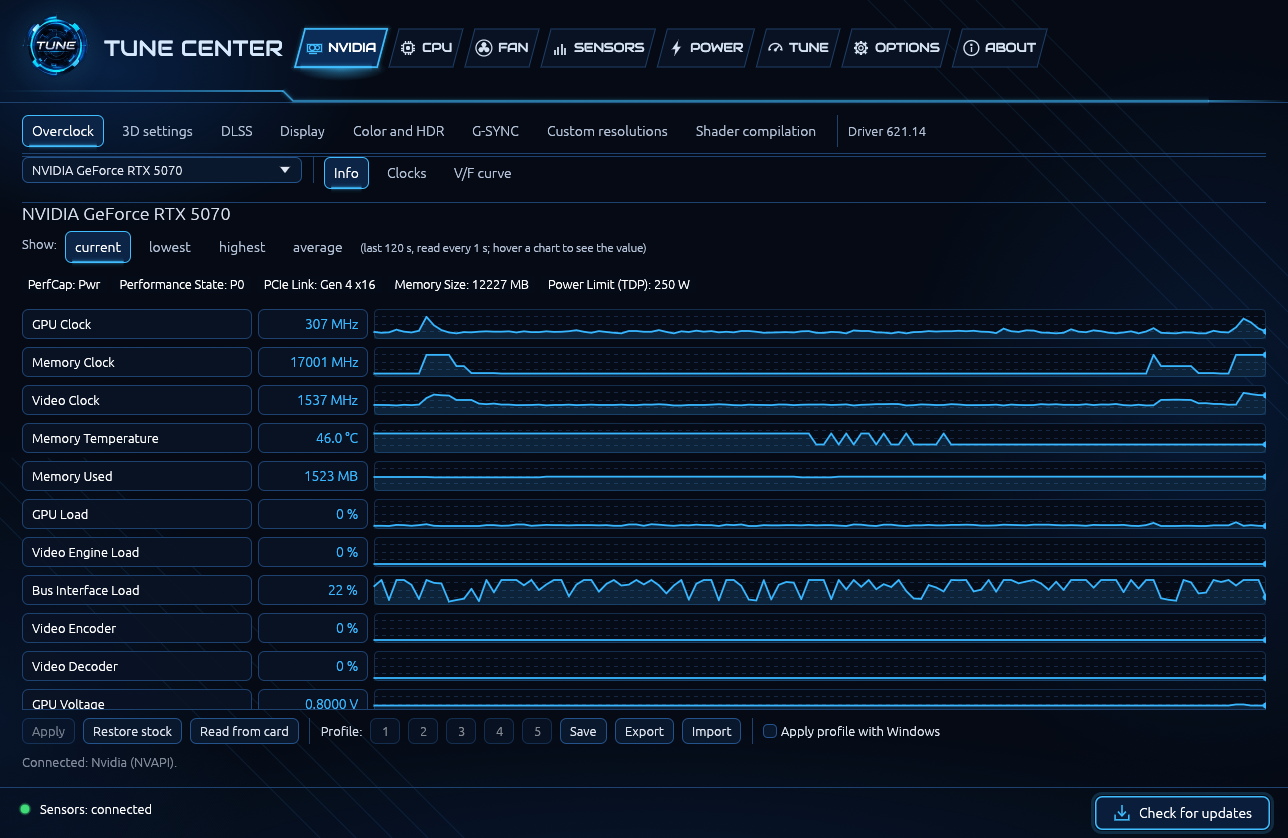
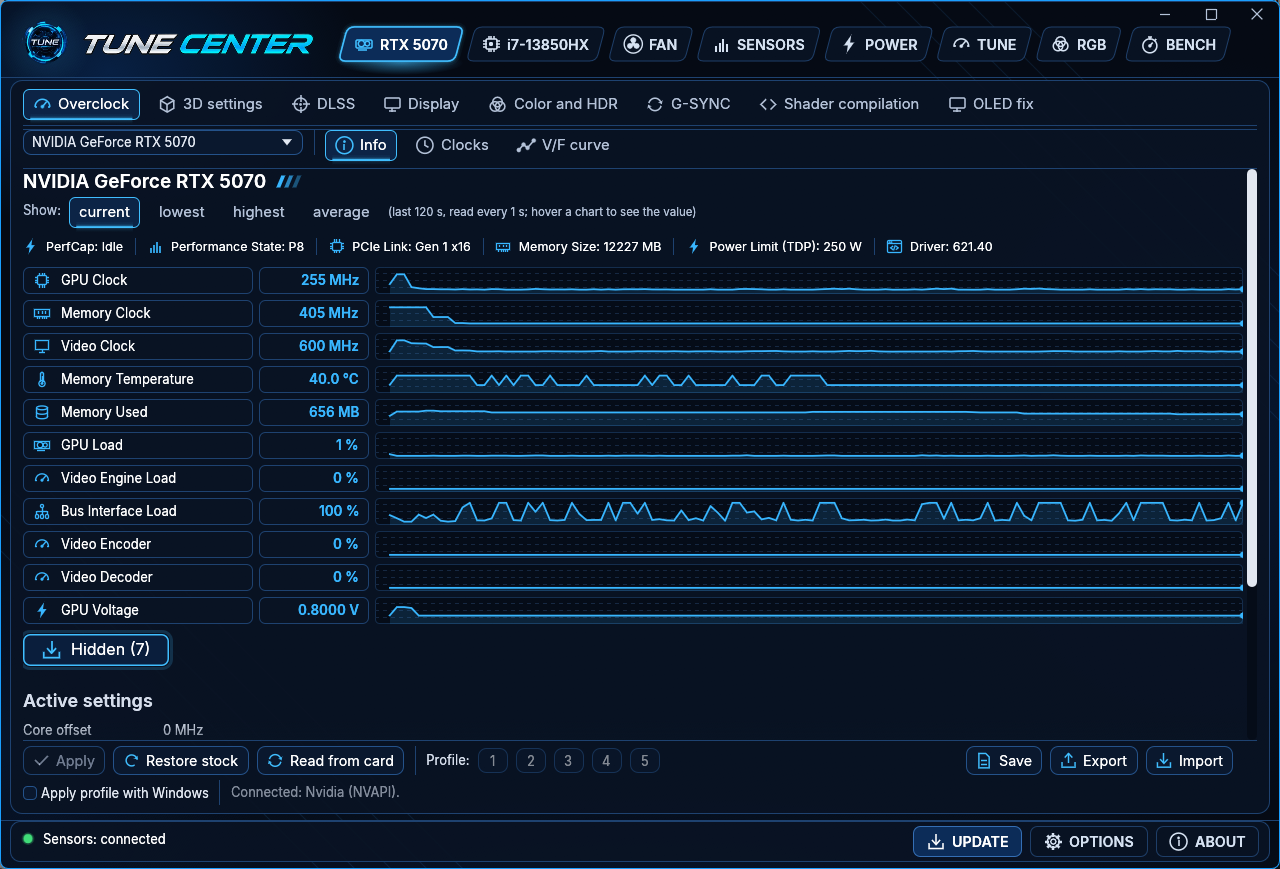
Update README, screenshots and the About tab
- README (EN and PL): RADEON and INTEL tabs, the basic panel for older
  Intel graphics, every shader engine incl. Unreal DX12 without a
  pipeline cache, USB power supplies and laptop battery, ACPI board
  temperature; new screenshots of nine tabs.
- About tab: current feature list (shader engines, RADEON/INTEL, whole
  computer power), without the removed custom resolutions.
- The default fan profile gets its name in the chosen language on the
  first start; game profiles list Battle.net and Riot Games.

Changed region(s): [[0.0, 0.0, 1.0, 1.0]]

diff --git a/src/main.rs b/src/main.rs
@@ -1063,10 +1063,11 @@ impl App {
                 crate::i18n::tr("O programie", "About"),
                 &[
                     crate::i18n::tr("Strojenie i monitorowanie komputera w jednym oknie.", "PC tuning and monitoring in one window."),
-                    crate::i18n::tr("NVIDIA - Overclock (zegary kart Nvidia i AMD, krzywa napięcie/częstotliwość, profile, HAGS, Resizable BAR), ustawienia 3D i DLSS, ekran, kolor i HDR, G-SYNC, rozdzielczości niestandardowe, kompilacja shaderów gier, OLED fix i aktualizacja sterownika.", "NVIDIA - Overclock (Nvidia and AMD card clocks, voltage/frequency curve, profiles, HAGS, Resizable BAR), 3D and DLSS settings, display, color and HDR, G-SYNC, custom resolutions, game shader compilation, OLED fix and driver updates."),
+                    crate::i18n::tr("NVIDIA - Overclock (zegary kart Nvidia i AMD, krzywa napięcie/częstotliwość, profile, HAGS, Resizable BAR), ustawienia 3D i DLSS, ekran, kolor i HDR, G-SYNC, OLED fix i aktualizacja sterownika. Karty AMD: ustawienia 3D, FSR i FreeSync (RADEON). Karty Intel: ustawienia 3D, ARC SYNC i ekran (INTEL), a starsze grafiki Intel - podstawowy panel z ustawieniami Windows.", "NVIDIA - Overclock (Nvidia and AMD card clocks, voltage/frequency curve, profiles, HAGS, Resizable BAR), 3D and DLSS settings, display, color and HDR, G-SYNC, OLED fix and driver updates. AMD cards: 3D settings, FSR and FreeSync (RADEON). Intel cards: 3D settings, ARC SYNC and display (INTEL), and older Intel graphics a basic panel with Windows settings."),
+                    crate::i18n::tr("Kompilacja shaderów gier z góry, z samych plików gry: Unity, Unreal Engine (DX11 i DX12), Dagor, Source 2, REDengine 3, RAGE, ForzaTech, Santa Monica, Northlight, Luminous, Frostbite, CRYENGINE, Snowdrop, Nixxes, Stingray, Tank, Zouna, Dawn oraz gry DX12 z shaderami niosącymi root signature. Gry ze Steam, Epic, GOG, Ubisoft, EA, Xbox, Battle.net i Riot Games.", "Ahead-of-time game shader compilation from the game files alone: Unity, Unreal Engine (DX11 and DX12), Dagor, Source 2, REDengine 3, RAGE, ForzaTech, Santa Monica, Northlight, Luminous, Frostbite, CRYENGINE, Snowdrop, Nixxes, Stingray, Tank, Zouna, Dawn and DX12 games whose shaders carry their root signature. Games from Steam, Epic, GOG, Ubisoft, EA, Xbox, Battle.net and Riot Games."),
                     crate::i18n::tr("CPU - Intel: limity mocy, offsety napięcia, IccMax, mnożniki turbo. AMD Ryzen: Curve Optimizer i limity PBO.", "CPU - Intel: power limits, voltage offsets, IccMax, turbo ratios. AMD Ryzen: Curve Optimizer and PBO limits."),
                     crate::i18n::tr("FAN - wentylatory płyty i karty: ręcznie albo krzywą zależną od temperatury, profile, także osobne dla gier.", "FAN - motherboard and card fans: manual or a temperature-based curve, profiles, also per game."),
-                    crate::i18n::tr("SENSORS i POWER - najważniejsze temperatury oraz pobór mocy procesora i karty z licznikiem energii i kosztem.", "SENSORS and POWER - key temperatures and CPU and card power draw with an energy counter and cost."),
+                    crate::i18n::tr("SENSORS i POWER - najważniejsze temperatury oraz pobór mocy procesora i karty z licznikiem energii i kosztem; zasilacz z USB (Corsair HXi/RMi, MSI Ai) i bateria laptopa pokazują pobór całego komputera.", "SENSORS and POWER - key temperatures and CPU and card power draw with an energy counter and cost; a USB power supply (Corsair HXi/RMi, MSI Ai) and a laptop battery show the whole computer's power draw."),
                     crate::i18n::tr("TUNE - ustawienia Windows wpływające na opóźnienia (przełączniki ON/OFF z kopią oryginałów).", "TUNE - Windows settings that affect latency (ON/OFF switches with a backup of the originals)."),
                     crate::i18n::tr("RGB - podświetlenie RAM, taśm Skydimo, urządzeń Logitech G, kart NVIDIA, płyt ASUS, Gigabyte i MSI oraz kontrolerów Corsair: kolor z jasnością, efekty (oddychanie, miganie, cykl kolorów, tęcza - tyle, ile ma dane urządzenie) z szybkością albo wyłączenie.", "RGB - lighting of RAM, Skydimo strips, Logitech G devices, NVIDIA cards, ASUS, Gigabyte and MSI boards and Corsair controllers: color with brightness, effects (breathing, flashing, color cycle, rainbow - as many as the device has) with speed, or off."),
                     crate::i18n::tr("BENCH - test wydajności procesora, stress test i test stabilności karty graficznej.", "BENCH - CPU performance test, stress test and graphics card stability test."),

diff --git a/src/config.rs b/src/config.rs
@@ -199,7 +199,16 @@ impl Config {
         let mut cfg: Config = Self::existing_path()
             .and_then(|p| std::fs::read_to_string(p).ok())
             .and_then(|s| serde_json::from_str(&s).ok())
-            .unwrap_or_default();
+            .unwrap_or_else(|| {
+                // Pierwsze uruchomienie: domyślny profil powstaje dopiero w
+                // `repair` niżej, gdy język jest już znany (inaczej zawsze
+                // dostawał polską nazwę).
+                let mut fresh = Config::default();
+                fresh.profiles.clear();
+                fresh.active.clear();
+                fresh.global_profile.clear();
+                fresh
+            });
 
         // Język trzeba ustalić przed naprawą ustawień: nazwa domyślnego
         // profilu zależy od języka.

diff --git a/src/fans.rs b/src/fans.rs
@@ -246,8 +246,8 @@ impl FansTab {
                 let text = match &found {
                     None => crate::i18n::tr("szukanie gier...", "looking for games...").to_owned(),
                     Some(l) => crate::trf!(
-                        "wykryte gry: {} (Steam, Epic, GOG, Ubisoft, EA, Xbox), z własnym profilem: {}",
-                        "detected games: {} (Steam, Epic, GOG, Ubisoft, EA, Xbox), with their own profile: {}",
+                        "wykryte gry: {} (Steam, Epic, GOG, Ubisoft, EA, Xbox, Battle.net, Riot Games), z własnym profilem: {}",
+                        "detected games: {} (Steam, Epic, GOG, Ubisoft, EA, Xbox, Battle.net, Riot Games), with their own profile: {}",
                         l.len(),
                         assigned
                     ),

diff --git a/README.md b/README.md
@@ -27,7 +27,8 @@ Most PC tuning means juggling MSI Afterburner, NVIDIA App, Intel XTU or Ryzen Ma
 
 - 🎮 **GPU** – core/memory clock offsets, a drag-and-drop **V/F curve editor** for undervolting, 5 profiles, apply on startup.
 - 🟢 **NVIDIA control panel** – 3D settings (global and per game), **DLSS overrides like the NVIDIA App** (presets, mode, Frame Generation), display, color/HDR, G-SYNC – using only the public NVAPI SDK.
-- ⚡ **Shader pre-compilation** – compile a game's shaders ahead of time (Unity, Unreal Engine, Dagor, Source 2, REDengine 3, RAGE, ForzaTech, Santa Monica, Northlight, Luminous, Frostbite, DirectX 12 games whose shaders carry their root signature and other DirectX 11 games) so the first match doesn't stutter, and clean the shader cache with one click.
+- 🔴🔵 **RADEON and INTEL** – AMD cards get 3D settings, FSR and FreeSync; Intel Xe and Arc get 3D settings, ARC SYNC and display; older Intel graphics get a basic panel with Windows display and graphics settings.
+- ⚡ **Shader pre-compilation** – compile a game's shaders ahead of time, from the game files alone (Unity, Unreal Engine DX11 and DX12, Dagor, Source 2, REDengine 3, RAGE, ForzaTech, Santa Monica, Northlight, Luminous, Frostbite, CRYENGINE, Snowdrop, Nixxes, Stingray, Tank, Zouna, Dawn, DirectX 12 games whose shaders carry their root signature and other DirectX 11 games) so the first match doesn't stutter, and clean the shader cache with one click.
 - 🧠 **CPU** – Intel PL1/PL2, voltage offsets, IccMax and turbo ratios with an XTU-style live monitor; AMD Ryzen Curve Optimizer per core and PBO limits.
 - 🌀 **Fans** – motherboard and GPU fans: auto, fixed or temperature curve, with profiles that switch automatically while a game runs.
 - 🌡 **Sensors & power** – key temperatures and CPU/GPU power with 2-minute charts, session energy and its cost.
@@ -48,7 +49,15 @@ Most PC tuning means juggling MSI Afterburner, NVIDIA App, Intel XTU or Ryzen Ma
 <td><img src="docs/screenshots/sensors.png" alt="Sensors"><br><b>SENSORS</b> – key temperatures with status badges and charts</td>
 </tr>
 <tr>
-<td colspan="2" align="center"><img src="docs/screenshots/power.png" width="50%" alt="Power"><br><b>POWER</b> – CPU and GPU power draw, load against the power limit, session energy and cost</td>
+<td><img src="docs/screenshots/power.png" alt="Power"><br><b>POWER</b> – CPU and GPU power draw, load against the power limit, session energy and cost</td>
+<td><img src="docs/screenshots/shaders.png" alt="Shader compilation"><br><b>Shader compilation</b> – installed games, their engine and what can be compiled ahead of time</td>
+</tr>
+<tr>
+<td><img src="docs/screenshots/tune.png" alt="Tune"><br><b>TUNE</b> – Windows latency and DPC settings with a backup of the originals</td>
+<td><img src="docs/screenshots/rgb.png" alt="RGB"><br><b>RGB</b> – one tab for RAM, LED strips, peripherals and the graphics card</td>
+</tr>
+<tr>
+<td colspan="2" align="center"><img src="docs/screenshots/bench.png" width="50%" alt="Bench"><br><b>BENCH</b> – CPU score, stress test and graphics card stability test</td>
 </tr>
 </table>
 
@@ -59,11 +68,12 @@ Most PC tuning means juggling MSI Afterburner, NVIDIA App, Intel XTU or Ryzen Ma
 - **Info** – GPU-Z style rows: clocks, memory temperature, memory used, GPU / video engine / bus load, encoder, decoder, voltage; less important readings (PCIe TX/RX, power, % TDP) behind a *Hidden* button. Hover any chart for the exact value.
 - **3D settings** and **DLSS** – the NVIDIA Control Panel / NVIDIA App options, globally or per game, with a backup before the first change.
 - **Display, Color and HDR, G-SYNC** – resolution and refresh rate (with 15 s confirmation), color depth, HDR, VRR.
-- **Shader compilation** – detects games from Steam, Epic, GOG, Ubisoft, EA, Xbox, Battle.net and Riot Games; pre-compiles shaders for Unity (DX11), Unreal Engine (DX11 from unencrypted `.pak` or IoStore games such as Palworld; DX12 pipelines from the game's `.upipelinecache`), Dagor Engine (DX11; DX12 compute and graphics pipelines from the game's `cache\dx12.cache`), Source 2 (DX11, e.g. Counter-Strike 2), REDengine 3 (DX12, The Witcher 3: pipelines from the game's shader cache and techniques), RAGE gen9 (DX12, GTA V Enhanced), ForzaTech (DX12, Forza Horizon), Santa Monica (DX12 God of War Ragnarök, DX11 God of War), Northlight (DX12, Control), Luminous Studio (DX11, Final Fantasy XV), Frostbite (DX11), DX12 games of any engine whose shaders carry an embedded root signature (carved from the game files, vertex and pixel shaders paired by their signatures) and other DX11 games with loose shader files; on AMD and Intel DX11 shaders also get the input layout from their signature; `tunecenter.exe --shader-report [game]` writes a read-only report `tunecenter-shaders.txt` of what it finds in each game; a *Status* column shows when each game was compiled and marks it again when a new NVIDIA driver (which clears the shader cache) or a game update needs a recompile; *Compile all that need it* queues the games and compiles them one after another, optionally on its own in the background after a driver update; the game's cache size is measured after compiling; *Clean shaders* removes the game's NVIDIA and Windows (D3DSCache) shader caches.
+- **Shader compilation** – detects games from Steam, Epic, GOG, Ubisoft, EA, Xbox, Battle.net and Riot Games; pre-compiles shaders for Unity (DX11), Unreal Engine (DX11 from unencrypted `.pak` or IoStore games such as Palworld; DX12 pipelines from the game's `.upipelinecache` or, without one, from its SM6 shader maps with the root signatures of the engine version, UE 4.20–5.8), Dagor Engine (DX11; DX12 compute and graphics pipelines from the game's `cache\dx12.cache`), Source 2 (DX11, e.g. Counter-Strike 2), REDengine 3 (DX12, The Witcher 3: pipelines from the game's shader cache and techniques), RAGE gen9 (DX12, GTA V Enhanced), ForzaTech (DX12, Forza Horizon), Santa Monica (DX12 God of War Ragnarök, DX11 God of War), Northlight (DX12, Control), Luminous Studio (DX11, Final Fantasy XV), Frostbite (DX11), CRYENGINE (DX12, Hunt: Showdown), Snowdrop (DX12, Star Wars Outlaws), Nixxes (DX12, Ghost of Tsushima, Ratchet & Clank), Stingray (DX11, Helldivers 2), Tank (DX11, Overwatch), Zouna (DX12, A Plague Tale: Requiem), Dawn (DX12, Guardians of the Galaxy), DX12 games of any engine whose shaders carry an embedded root signature (carved from the game files, vertex and pixel shaders paired by their signatures) and other DX11 games with loose shader files; on AMD and Intel DX11 shaders also get the input layout from their signature; `tunecenter.exe --shader-report [game]` writes a read-only report `tunecenter-shaders.txt` of what it finds in each game; a *Status* column shows when each game was compiled and marks it again when a new NVIDIA driver (which clears the shader cache) or a game update needs a recompile; *Compile all that need it* queues the games and compiles them one after another, optionally on its own in the background after a driver update; the game's cache size is measured after compiling; *Clean shaders* removes the game's NVIDIA and Windows (D3DSCache) shader caches.
 - **OLED fix** – one-click `vrrFrameSplitBehavior` driver tweak: with G-SYNC the driver keeps a 1× frame multiplier down to 48 FPS instead of doubling (e.g. 60 FPS → 120 Hz), which removes VRR brightness flicker on OLED monitors; re-applied automatically after a clean driver install.
 - **System** – Hardware-accelerated GPU scheduling (HAGS) toggle and Resizable BAR status.
 - **Driver updates** – checks the NVIDIA server for the latest Game Ready driver for your card (at startup and every 6 hours) and installs just the driver (with HDMI audio and PhysX, without NVIDIA App and telemetry) silently with one click.
-- AMD Radeon cards: clock limits, sensors and fans.
+- AMD Radeon cards: clock limits, sensors and fans; the tab is called RADEON and has 3D settings, FSR and FreeSync (AMD ADLX).
+- Intel graphics: the tab is called INTEL – 3D settings (global or per game), ARC SYNC and display from the Intel driver (IGCL, Intel Xe and Arc). Graphics older than 11th-gen processors get a basic panel instead: display mode, scaling and HDR, HAGS, windowed game optimizations, Windows VRR and the GPU chosen for a game. Without an NVIDIA or AMD card the Overclock page is hidden.
 
 ### CPU
 - **Intel** (12th–14th gen): PL1, PL2 and Tau, voltage offset per domain, Core IccMax, active-core turbo ratios (like XTU), live monitor (package/core temperatures, RAPL power, VID, clocks, throttling reasons).
@@ -72,9 +82,10 @@ Most PC tuning means juggling MSI Afterburner, NVIDIA App, Intel XTU or Ryzen Ma
 
 ### FAN, SENSORS, POWER
 - Motherboard fans (via LibreHardwareMonitor) and GPU fans (directly through the NVIDIA/AMD driver): auto, manual or curve from any temperature sensor; GPU fans return to auto above 88 °C.
-- **Game profiles** – assign a fan profile to any game detected in Steam, Epic, GOG, Ubisoft, EA or Xbox (or any .exe); it switches on while the game runs and the global profile returns when it closes.
-- Key temperatures (CPU, GPU, motherboard, disks, RAM) with NORMAL/HIGH/HOT badges, min/max and charts.
+- **Game profiles** – assign a fan profile to any game detected in Steam, Epic, GOG, Ubisoft, EA, Xbox, Battle.net or Riot Games (or any .exe); it switches on while the game runs and the global profile returns when it closes.
+- Key temperatures (CPU, GPU, motherboard, disks, RAM) with NORMAL/HIGH/HOT badges, min/max and charts. When the motherboard's sensor chip can't be read, the board temperature comes from Windows ACPI thermal zones (only zones that actually change, not fixed BIOS values).
 - CPU and GPU power with LOW/MEDIUM/HIGH load against the power limit, session energy and cost (price per kWh in OPTIONS).
+- **Whole computer** – a USB power supply (Corsair HXi/RMi, MSI Ai) or a discharging laptop battery shows the power draw of the whole PC, next to the CPU + GPU total. Power supply temperatures and fan speed are shown read-only.
 
 ### TUNE – latency and DPC
 Windows and driver settings recommended by Microsoft, NVIDIA and hardware vendors (Memory Integrity, Virtual Machine Platform, NIC interrupt moderation, EEE and vendor power saving (Green Ethernet, Gigabit Lite, Selective Suspend and more), USB selective suspend, PCIe link power management, CPU core parking off, Ultimate Performance plan, mouse acceleration off, SysMain off on SSD-only PCs, NVIDIA V-Sync + frame cap below the refresh rate for G-SYNC, Low Latency Mode) plus settings to test on your own hardware (NVIDIA maximum performance power mode, MSI interrupt mode per device, memory compression off, Fault Tolerant Heap off, fast startup off, Win32PrioritySeparation, SystemResponsiveness, Multi-Plane Overlay off). Every option shows its current value; the original values are backed up before the first change.
@@ -97,7 +108,7 @@ Running as administrator is optional – the GPU, NVIDIA settings, shader compil
 
 ### Requirements
 - Windows 10 or 11, 64-bit
-- NVIDIA (GTX/RTX) or AMD Radeon graphics card with a current driver
+- NVIDIA (GTX/RTX), AMD Radeon or Intel graphics with a current driver
 - [.NET 11 Runtime](https://dotnet.microsoft.com/download/dotnet/11.0) – for the sensor process (installed by the setup)
 - [PawnIO](https://pawnio.eu) – optional; needed for CPU tuning, CPU sensors and RAM lighting (installed by the setup)
 

diff --git a/README.pl.md b/README.pl.md
@@ -10,7 +10,12 @@ przełącza się przyciskami w nagłówku, obok logo:
     zegar rdzenia / napięcie dla kart Nvidia (dawny NVCurve, wcześniej
     zakładka GPU),
   - odpowiednik panelu sterowania Nvidia: ustawienia 3D (globalne i dla
-    programów), tryb ekranu, kolor i HDR, G-SYNC.
+    programów), tryb ekranu, kolor i HDR, G-SYNC,
+  - kompilacja shaderów gier z góry (Shader compilation),
+  - z kartą AMD zakładka nazywa się RADEON (ustawienia 3D, FSR, FreeSync),
+    z grafiką Intel - INTEL (ustawienia 3D, ARC SYNC, ekran; starsze grafiki
+    Intel dostają podstawowy panel z ustawieniami Windows). Bez karty Nvidia
+    i AMD podzakładka Overclock jest ukryta.
 - **CPU** - Intel: limity mocy, offsety napięcia i Core IccMax;
   AMD Ryzen: Curve Optimizer dla każdego rdzenia i limity PBO.
 - **FAN** - sterowanie wentylatorami płyty głównej: ręcznie lub krzywą
@@ -18,7 +23,9 @@ przełącza się przyciskami w nagłówku, obok logo:
   (dawny FanCtl).
 - **SENSORS** - najważniejsze temperatury z wykresami z ostatnich 2 minut.
 - **POWER** - aktualny pobór mocy procesora i karty graficznej, suma
-  oraz licznik energii zużytej w bieżącej sesji.
+  oraz licznik energii zużytej w bieżącej sesji; zasilacz z USB (Corsair
+  HXi/RMi, MSI Ai) i rozładowująca się bateria laptopa pokazują pobór
+  całego komputera.
 - **TUNE** - ustawienia Windows wpływające na opóźnienia i DPC, z kopią
   oryginalnych wartości i przywracaniem.
 - **RGB** - podświetlenie RAM, taśm Skydimo, urządzeń Logitech G, kart
@@ -49,7 +56,7 @@ a kartę graficzną - bezpośrednio biblioteki sterowników: `nvapi64.dll`
 - .NET SDK 8: https://dotnet.microsoft.com/download
 - Sterownik PawnIO (https://pawnio.eu) - potrzebny nowszym wersjom
   LibreHardwareMonitor do dostępu do układu Super I/O płyty głównej
-- Sterownik Nvidia lub AMD Adrenalin (dla zakładki "Karta graficzna")
+- Sterownik Nvidia, AMD Adrenalin albo Intel (dla zakładki karty graficznej)
 
 ## Budowanie i uruchamianie
 
@@ -284,8 +291,17 @@ udostępnia pobierania gotowych shaderów; Tune Center czyta je z plików gry.
   gry; God of War 2018, DX11), Northlight (Control, DX12 - rekordy potoków,
   dwie root signature silnika), Luminous Studio (Final Fantasy XV, DX11 -
   archiwa EARC), Frostbite (DX11 - bloki archiwów `cas_NN.cas`; bloki
-  zaciemnione i ze słownikiem gry są pomijane). Żadna z tych gier nie była
-  sprawdzona na prawdziwych plikach - tylko testy na danych syntetycznych.
+  zaciemnione i ze słownikiem gry są pomijane), CRYENGINE (Hunt: Showdown,
+  DX12 - root signature z układów zasobów gry), Snowdrop (Star Wars Outlaws,
+  DX12), Nixxes (Ghost of Tsushima, Ratchet & Clank, DX12 - root signature
+  znanej wersji gry), Stingray (Helldivers 2, DX11), Tank (Overwatch, DX11),
+  Zouna (A Plague Tale: Requiem, DX12) i Dawn (Guardians of the Galaxy, DX12
+  - potoki z plików potoków gry). Żadna z tych gier nie była sprawdzona na
+  prawdziwych plikach - tylko testy na danych syntetycznych.
+- **Unreal Engine DirectX 12 bez pamięci potoków**: potoki z map shaderów
+  SM6 z bibliotek gry (shadery wierzchołków i pikseli łączone po
+  semantykach), root signature budowane jak w silniku danej wersji (UE
+  4.20-5.8). Palworld: 62 948 shaderów, 96 211 potoków (na NVIDIA 65 628).
 - **Gry DirectX 12 dowolnego silnika**: kontenery DXIL/DXBC z wbudowaną
   root signature (część `RTS0`) wycinane z plików gry - pliki z „shader”,
   „pso” itp. w nazwie w całości, pozostałe najpierw próbkami. Shadery
@@ -500,7 +516,10 @@ wszystkie są widoczne bez przewijania; liczba kolumn i wielkość cyfr zależą
 rozmiaru okna. Każdy kafelek ma plakietkę stanu (NORMALNA poniżej 65 °C,
 WYSOKA od 65 °C, GORĄCO od 80 °C), zmianę z ostatnich 5 s, minimum i maksimum
 oraz wykres z ostatnich 120 s (odczyt co sekundę, także gdy okno jest
-schowane). Obroty wentylatorów są w zakładce FAN.
+schowane). Obroty wentylatorów są w zakładce FAN. Gdy układu czujników płyty
+nie da się odczytać (np. Nuvoton NCT6683D z firmware producenta płyty),
+temperatura płyty pochodzi ze stref termicznych ACPI Windows - tylko z takich,
+których wartość się zmienia, a nie ze stałych wartości wpisanych przez BIOS.
 
 ## Power
 
@@ -517,9 +536,14 @@ schowane). Obroty wentylatorów są w zakładce FAN.
   domyślnie 0,90 zł; 0 ukrywa koszt) i "Wyzeruj licznik".
 - Licznik działa od uruchomienia programu, także przy zminimalizowanym
   oknie. Przerwy dłuższe niż 5 s (uśpienie komputera) nie są doliczane.
-- To pobór samego procesora i karty graficznej według ich własnych
+- Razem to pobór samego procesora i karty graficznej według ich własnych
   czujników, a nie całego komputera; płyta, dyski, wentylatory i straty
   zasilacza nie są wliczone.
+- **Cały komputer**: zasilacz z USB (Corsair HXi/RMi, MSI Ai) albo
+  rozładowująca się bateria laptopa dostaje osobny kafelek z poborem całego
+  komputera, za kafelkiem Razem i poza jego sumą. Temperatury i obroty
+  wentylatora zasilacza są tylko do odczytu. Dysków, chipsetu i urządzeń
+  USB nie da się zmierzyć osobno - nie podają poboru mocy.
 - Moc procesora wymaga uprawnień administratora i sterownika PawnIO.
 
 ## RGB - oświetlenie
